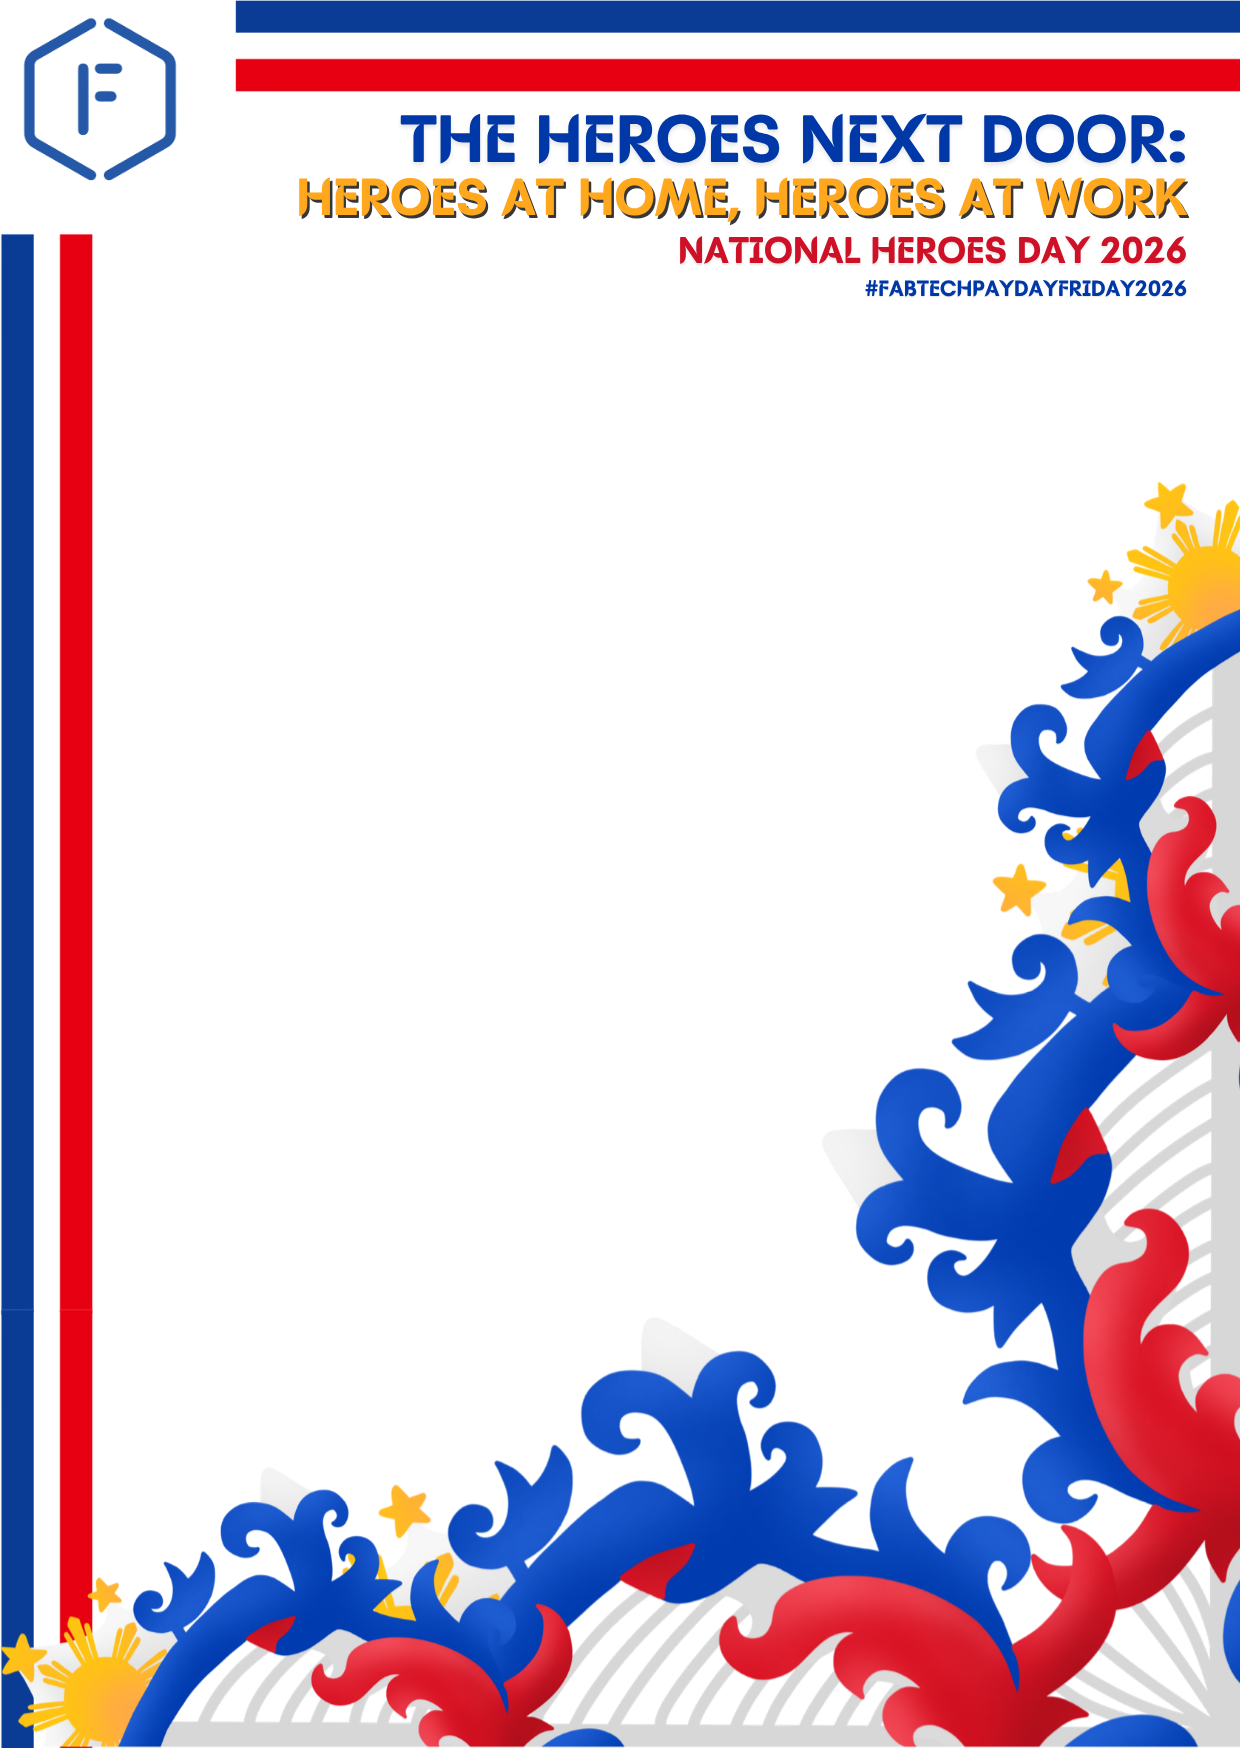
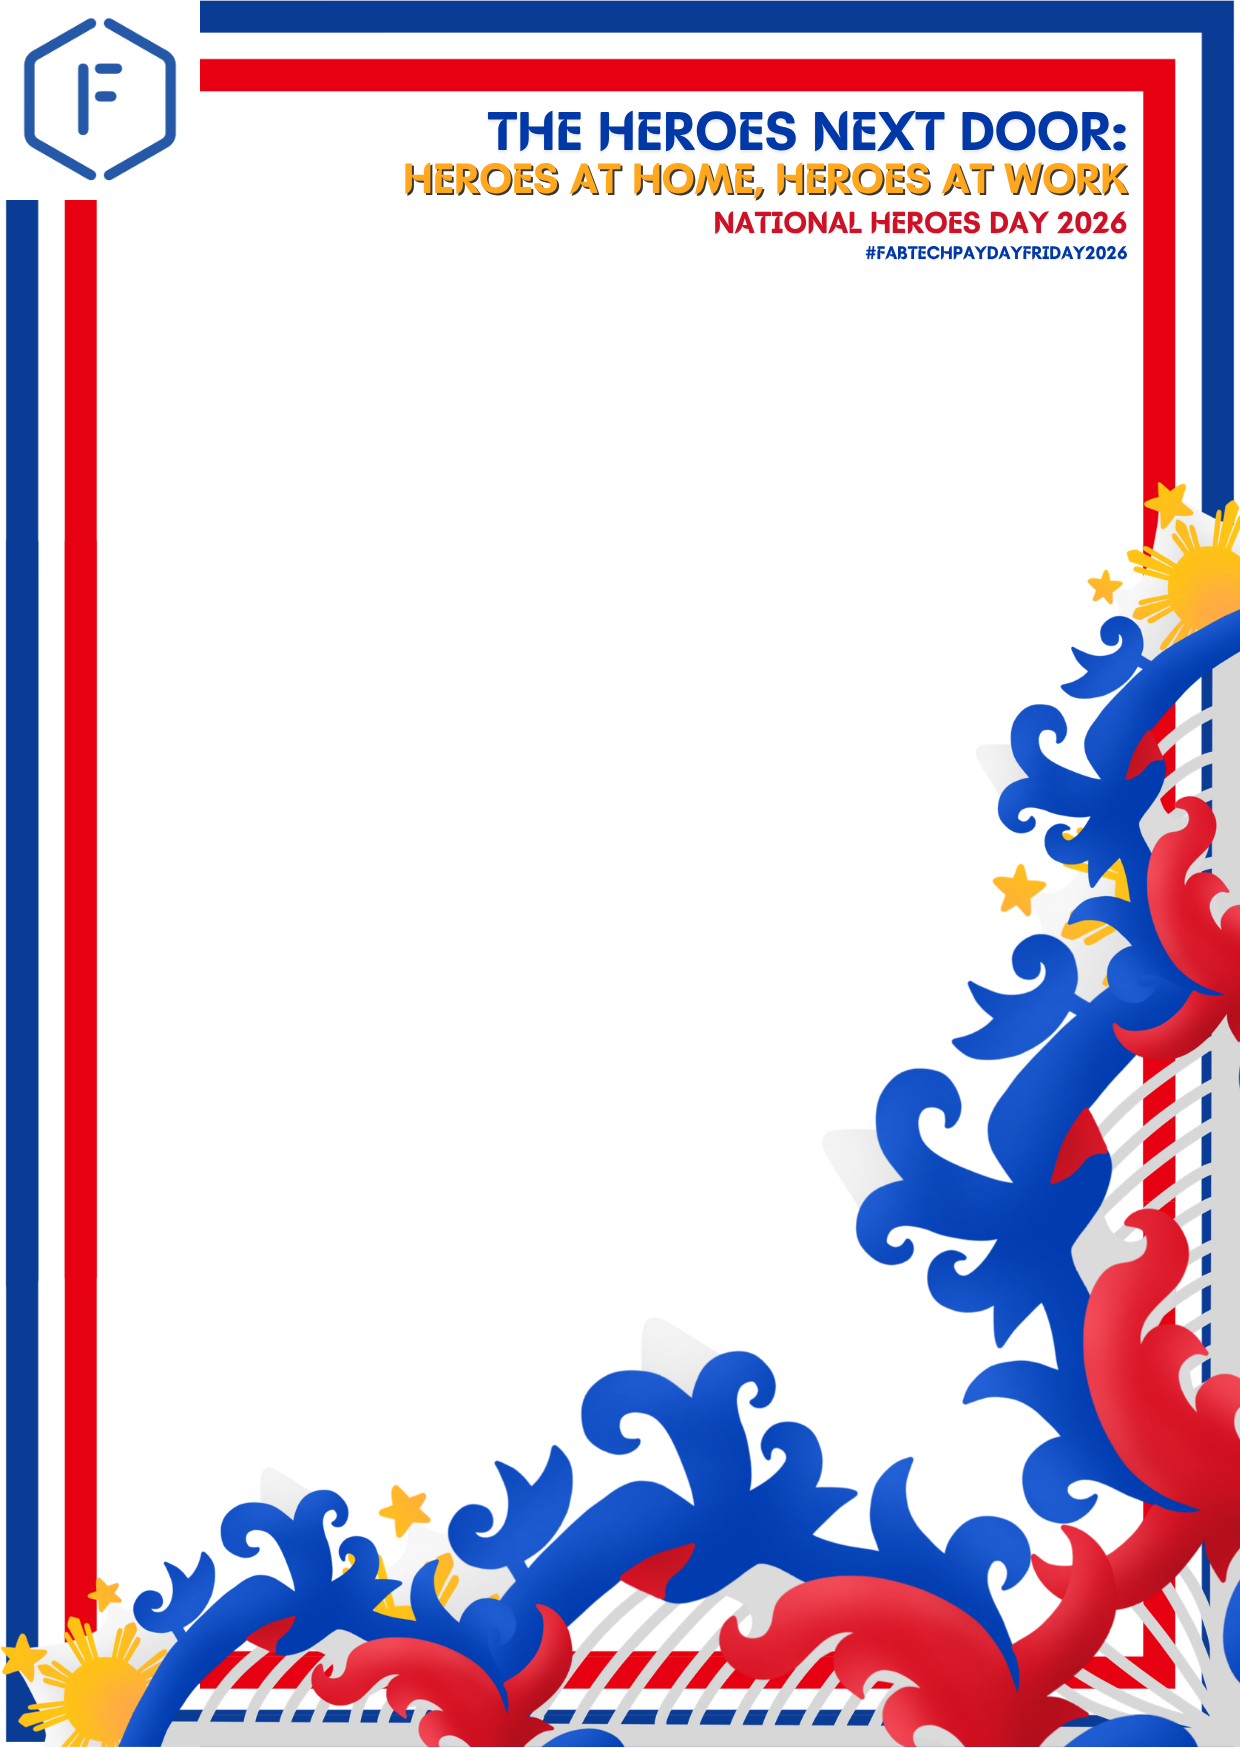
v0.4.1 Dynamic Frame System

diff --git a/js/script.js b/js/script.js
@@ -1,63 +1,79 @@
 // =====================================================
 // Company Event Photo Booth
-// Version: v0.4.0 (Feature Branch)
+// Version: v0.4.0 (Development)
 // =====================================================
 
 document.addEventListener("DOMContentLoaded", () => {
+    // =====================================================
+    // Configuration
+    // =====================================================
     const APP_CONFIG = {
+        DEV_MODE: true
+    };
 
-    DEV_MODE: true
-
-};
 
     // =====================================================
     // DOM Elements
     // =====================================================
-
+    // Buttons
     const startButton = document.getElementById("startBtn");
-    const setupScreen = document.getElementById("setupScreen");
     const continueButton = document.getElementById("continueBtn");
-    const cameraScreen = document.getElementById("cameraScreen");
     const backButton = document.getElementById("backBtn");
+
+    // Screens
+    const setupScreen = document.getElementById("setupScreen");
+    const cameraScreen = document.getElementById("cameraScreen");
+    
+    // Camera
     const cameraPreview = document.getElementById("cameraPreview");
+    const devPreview = document.getElementById("devPreview");
+    const photoCanvas = document.getElementById("photoCanvas");
+    const photoContext = photoCanvas.getContext("2d");
     const cameraTitle = document.querySelector(".camera-header h2");
+    const cameraContainer = document.querySelector(".camera-container");
+
+    // Frames
     const squareFrame = document.getElementById("squareFrame");
     const portraitFrame = document.getElementById("portraitFrame");
+    const landscapeFrame = document.getElementById("landscapeFrame");
 
-    const devPreview = document.getElementById("devPreview");
+    const frameOverlays = {
+        square: squareFrame,
+        portrait: portraitFrame,
+        landscape: landscapeFrame
+    };
+
+    const FRAME_PRESETS = {
+        square: {
+            overlay: squareFrame,
+            aspectRatio: "1 / 1"
+        },
+
+        portrait: {
+            overlay: portraitFrame,
+            aspectRatio: "1240 / 1748"
+        },
+
+        landscape: {
+            overlay: landscapeFrame,
+            aspectRatio: "16 / 9"
+        }
+    };
+    
 
     // =====================================================
     // Application State
     // =====================================================
-
     let currentStream = null;
+
 
     // =====================================================
     // Option Card Selection
     // =====================================================
-
-    const optionCards = ...
-
-    // =====================================================
-    // Event Listeners
-    // =====================================================
-
-    startButton.addEventListener("click", () => {
-
-        startButton.style.display = "none";
-
-        setupScreen.classList.remove("hidden");
-
-    });
-
-
     const optionCards = document.querySelectorAll(".option-card");
 
-
     optionCards.forEach(card => {
-
         card.addEventListener("click", () => {
-
             const group = card.parentElement;
 
             group.querySelectorAll(".option-card")
@@ -65,141 +81,125 @@ document.addEventListener("DOMContentLoaded", () => {
                     item.classList.remove("selected");
                 });
 
-
             card.classList.add("selected");
-
         });
-
     });
 
 
+    // =====================================================
+    // Event Listeners
+    // =====================================================
+    startButton.addEventListener("click", () => {
+        startButton.style.display = "none";
+        setupScreen.classList.remove("hidden");
+    });
+
     continueButton.addEventListener("click", async () => {
+        showScreen(cameraScreen);
+        await startCamera();
+    });
+    
+    backButton.addEventListener("click", () => {
+        stopCamera();
+        showScreen(setupScreen);
+    });
 
-    showScreen(cameraScreen);
-
-    await startCamera();
-
-});
-
-backButton.addEventListener("click", () => {
-
-    if (APP_CONFIG.DEV_MODE) {
-
-    devPreview.classList.add("hidden");
-
-    cameraPreview.classList.remove("hidden");
-
-    return;
-
-}
-
-    stopCamera();
-
-    showScreen(setupScreen);
-
-});
 
     // =====================================================
     // Screen Navigation
     // =====================================================
-
     function showScreen(screen) {
-
-    setupScreen.classList.add("hidden");
-    cameraScreen.classList.add("hidden");
-
-    screen.classList.remove("hidden");
-
-}
+        setupScreen.classList.add("hidden");
+        cameraScreen.classList.add("hidden");
+        screen.classList.remove("hidden");
+    }
 
     // =====================================================
     // Camera Functions
     // =====================================================
-
     async function startCamera() {
+
+        updateFrameOverlay();
+        updatePreviewLayout();
+
         if (APP_CONFIG.DEV_MODE) {
-
-        cameraPreview.classList.add("hidden");
-
-        devPreview.classList.remove("hidden");
-            
-    updateFrameOverlay();
-
-    cameraTitle.textContent = "Developer Preview";
-
-    return;
-
-}
+            cameraPreview.classList.add("hidden");
+            devPreview.classList.remove("hidden");
+            cameraTitle.textContent = "Developer Preview";
+            return;
+        }
 
     try {
-
         cameraTitle.textContent = "Preparing Camera...";
-
         const selectedCamera =
             document.querySelector('[data-camera].selected').dataset.camera;
-
         currentStream = await navigator.mediaDevices.getUserMedia({
-
             video: {
                 facingMode:
                     selectedCamera === "front"
                         ? "user"
                         : "environment"
             },
-
             audio: false
-
         });
 
         cameraPreview.srcObject = currentStream;
-
         cameraTitle.textContent = "Position Yourself";
-
     }
 
     catch (error) {
-
         alert(
             "Camera access is required to use the Photo Booth.\n\nPlease allow camera permission and try again."
         );
-
         showScreen(setupScreen);
-
+    }
     }
 
-}
+    function stopCamera() {
+        if (APP_CONFIG.DEV_MODE) {
+            devPreview.classList.add("hidden");
+            cameraPreview.classList.remove("hidden");
+            cameraTitle.textContent = "Camera Preview";
+        }
 
-function stopCamera() {
+        if (currentStream) {
+            currentStream.getTracks().forEach(track => track.stop());
+            currentStream = null;
+            cameraPreview.srcObject = null;
+        }
+    }
 
-    if (!currentStream) return;
-
-    currentStream.getTracks().forEach(track => track.stop());
-
-    currentStream = null;
-
-}
 
     // =====================================================
     // Overlay Functions
     // =====================================================
+    function updatePreviewLayout() {
 
-function updateFrameOverlay() {
+        const selectedFrame =
+            document.querySelector("[data-frame].selected").dataset.frame;
+
+        const preset = FRAME_PRESETS[selectedFrame];
+
+        cameraContainer.style.aspectRatio = preset.aspectRatio;
+
+    }
+    
+    function updateFrameOverlay() {
 
     const selectedFrame =
         document.querySelector("[data-frame].selected").dataset.frame;
 
-    if (selectedFrame === "square") {
+    // Hide every overlay
+    Object.values(frameOverlays).forEach(frame => {
+        frame.classList.add("hidden");
+    });
 
-        squareFrame.classList.remove("hidden");
-        portraitFrame.classList.add("hidden");
-
-    } else {
-
-        portraitFrame.classList.remove("hidden");
-        squareFrame.classList.add("hidden");
-
+    // Show the selected overlay
+    frameOverlays[selectedFrame].classList.remove("hidden");
     }
 
-}
+    // =====================================================
+    // Capture Functions
+    // =====================================================
 
 });

diff --git a/index.html b/index.html
@@ -96,6 +96,12 @@ Customize your photo experience before capturing your hero moment.
 </div>
 
 
+<div class="option-card" data-frame="landscape">
+    ▭
+    <span>Landscape</span>
+</div>
+
+
 </div>
 
 
@@ -184,6 +190,11 @@ Continue →
         muted>
     </video>
 
+    <canvas
+        id="photoCanvas"
+        class="hidden">
+    </canvas>
+
     <img
         id="devPreview"
         class="hidden"
@@ -201,6 +212,12 @@ Continue →
         class="frame-overlay hidden"
         src="assets/frame-portrait.png"
         alt="Portrait Frame">
+    
+    <img
+        id="landscapeFrame"
+        class="frame-overlay hidden"
+        src="assets/frame-landscape.png"
+        alt="Landscape Frame">
 
 </div>
 

diff --git a/css/style.css b/css/style.css
@@ -289,14 +289,6 @@ h3{
 
 }
 
-#cameraPreview{
-
-    width:100%;
-    height:100%;
-    object-fit:cover;
-
-}
-
 .camera-footer{
 
     display:flex;
@@ -339,6 +331,12 @@ h3{
     position:absolute;
 
     inset:0;
+
+    width:100%;
+
+    height:100%;
+
+    object-fit:cover;
 
 }
 